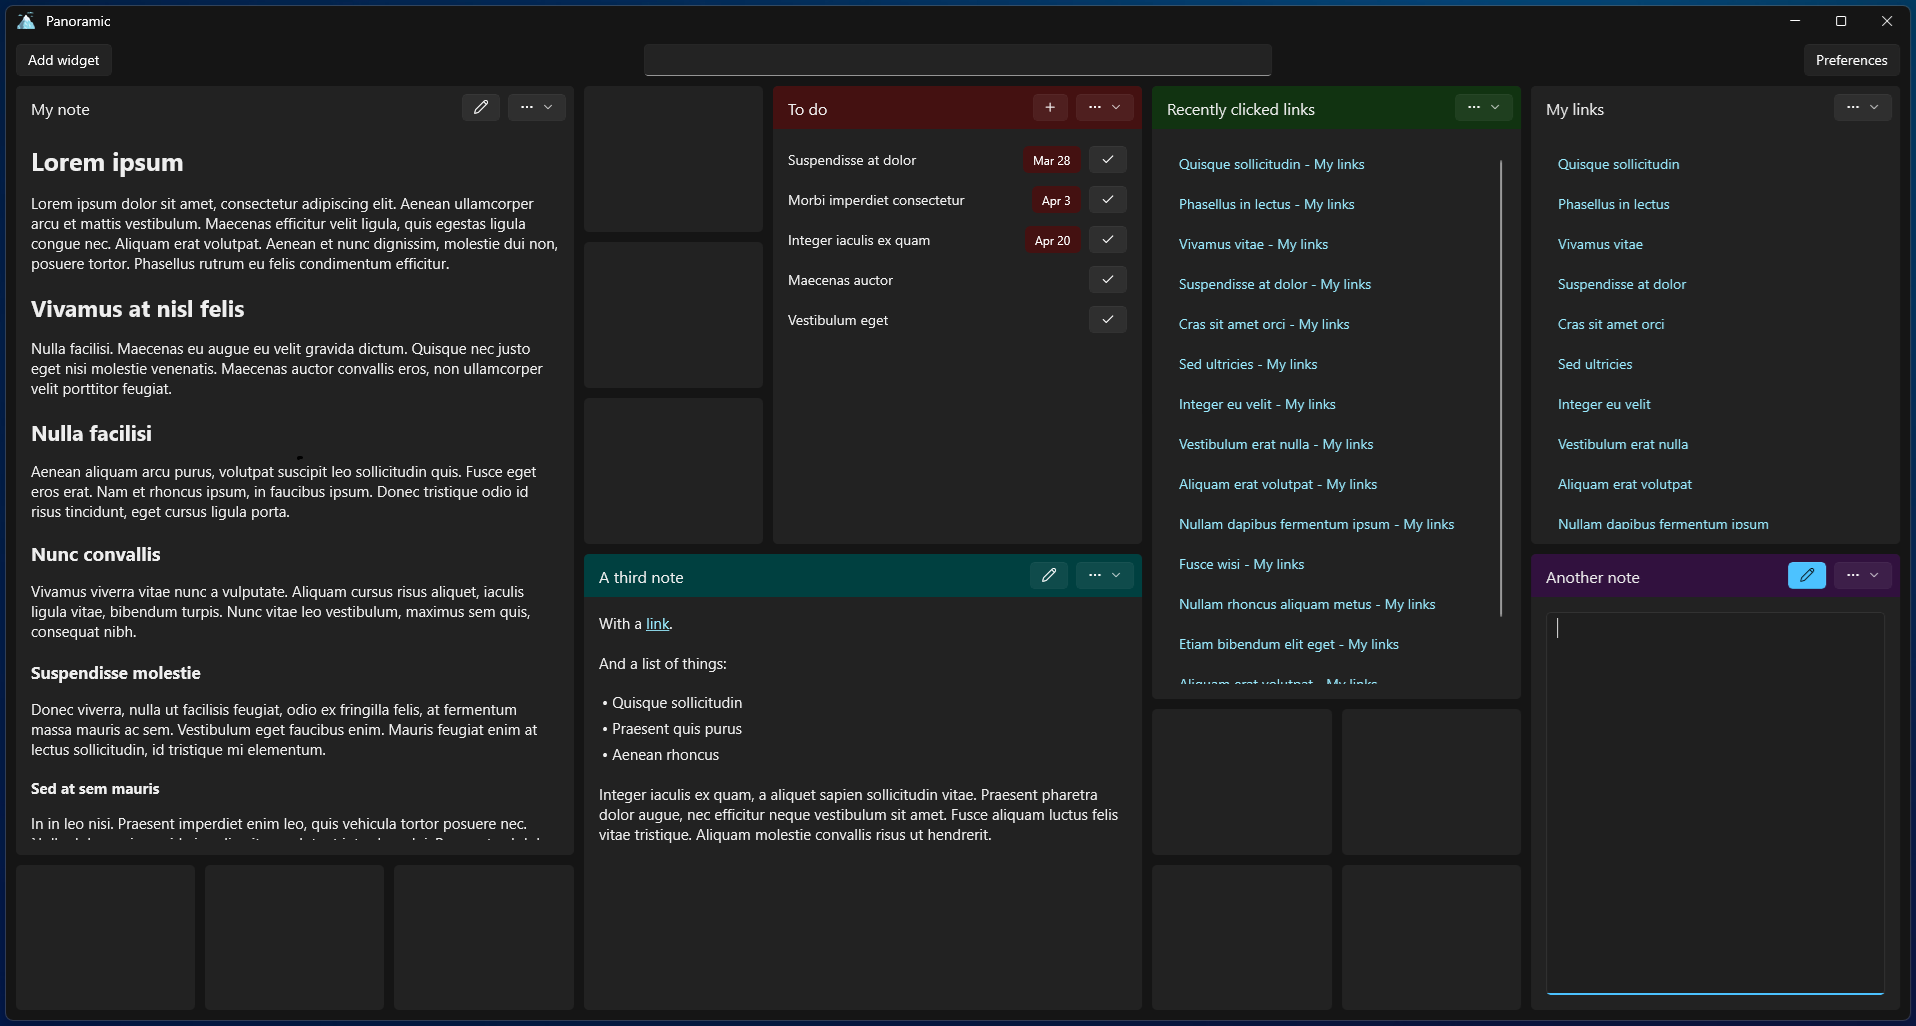
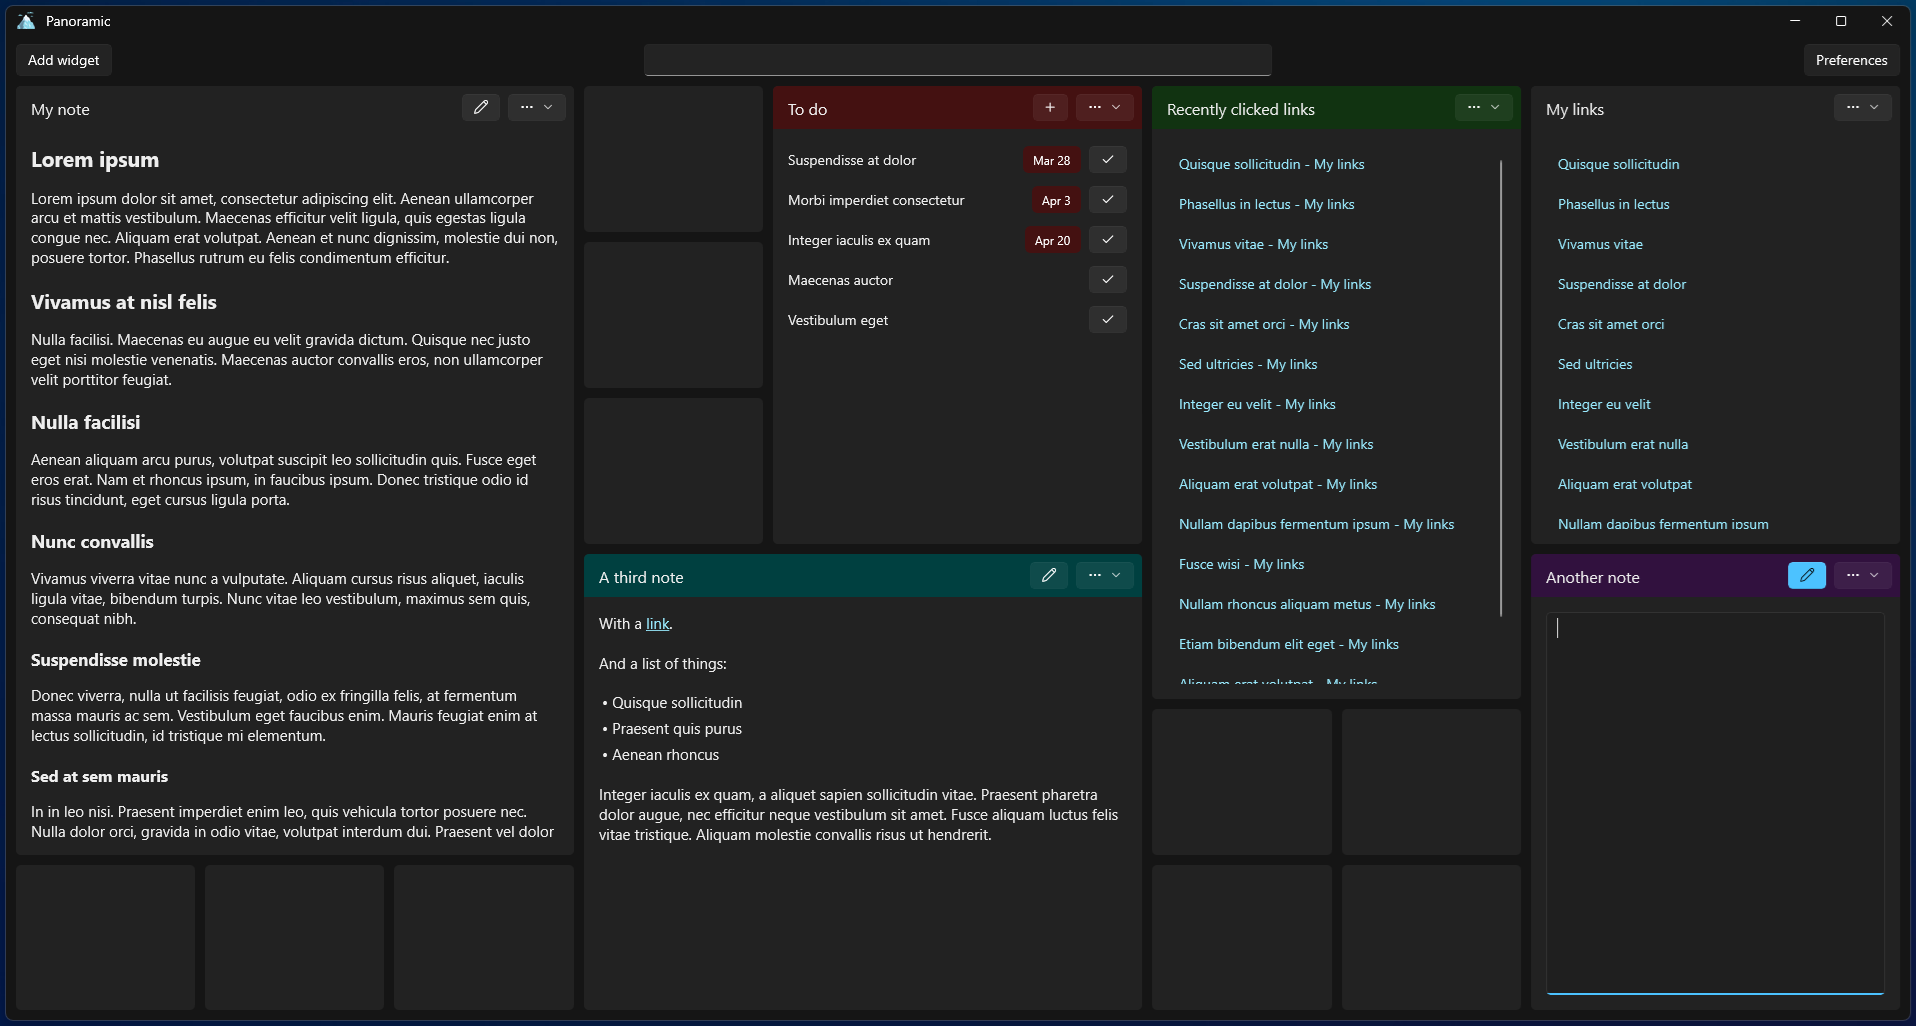
fix: increase markdown headers font size

Changed region(s): [[0.0, 0.1248, 0.3079, 0.8109]]

diff --git a/src/Panoramic/Services/Markdown/MarkdownService.cs b/src/Panoramic/Services/Markdown/MarkdownService.cs
@@ -96,7 +96,7 @@ public sealed partial class MarkdownService(IEventHub eventHub) : IMarkdownServi
     {
         var paragraph = new Paragraph
         {
-            FontSize = fontSize + 5,
+            FontSize = fontSize + 6,
             FontWeight = FontWeights.Bold,
             Margin = new Thickness(0, 0, 0, HeaderMarginBottom)
         };
@@ -111,7 +111,7 @@ public sealed partial class MarkdownService(IEventHub eventHub) : IMarkdownServi
     {
         var paragraph = new Paragraph
         {
-            FontSize = fontSize + 4,
+            FontSize = fontSize + 5,
             FontWeight = FontWeights.Bold,
             Margin = new Thickness(0, 0, 0, HeaderMarginBottom)
         };
@@ -126,7 +126,7 @@ public sealed partial class MarkdownService(IEventHub eventHub) : IMarkdownServi
     {
         var paragraph = new Paragraph
         {
-            FontSize = fontSize + 3,
+            FontSize = fontSize + 4,
             FontWeight = FontWeights.Bold,
             Margin = new Thickness(0, 0, 0, HeaderMarginBottom)
         };
@@ -141,7 +141,7 @@ public sealed partial class MarkdownService(IEventHub eventHub) : IMarkdownServi
     {
         var paragraph = new Paragraph
         {
-            FontSize = fontSize + 2,
+            FontSize = fontSize + 3,
             FontWeight = FontWeights.Bold,
             Margin = new Thickness(0, 0, 0, HeaderMarginBottom)
         };
@@ -156,7 +156,7 @@ public sealed partial class MarkdownService(IEventHub eventHub) : IMarkdownServi
     {
         var paragraph = new Paragraph
         {
-            FontSize = fontSize + 1,
+            FontSize = fontSize + 2,
             FontWeight = FontWeights.Bold,
             Margin = new Thickness(0, 0, 0, HeaderMarginBottom)
         };
@@ -171,7 +171,7 @@ public sealed partial class MarkdownService(IEventHub eventHub) : IMarkdownServi
     {
         var paragraph = new Paragraph
         {
-            FontSize = fontSize,
+            FontSize = fontSize + 1,
             FontWeight = FontWeights.Bold,
             Margin = new Thickness(0, 0, 0, HeaderMarginBottom)
         };
